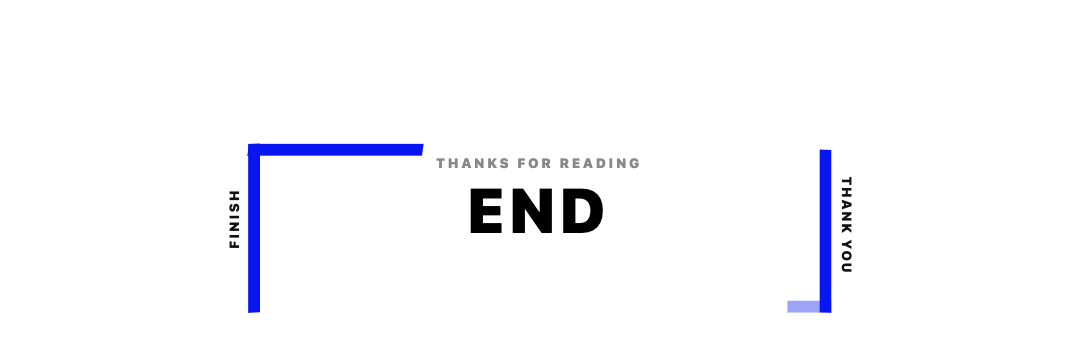
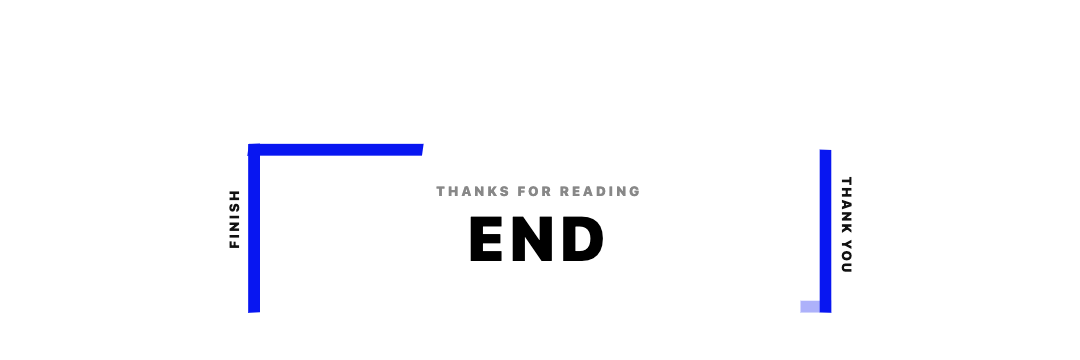
Center weekly end card content

Changed region(s): [[0.3972, 0.5194, 0.6111, 0.7333], [0.3972, 0.4278, 0.6111, 0.4889], [0.7028, 0.825, 0.7639, 0.8861]]

diff --git a/article-012-visual-asset-library-end-card.html b/article-012-visual-asset-library-end-card.html
@@ -25,7 +25,7 @@
 }
 </style>
 <section data-iaw-ending="true" style="margin:58px 16px 0;padding:42px 0 26px;text-align:center;box-sizing:border-box;">
-  <div style="display:inline-block;position:relative;width:100%;max-width:430px;min-height:144px;padding:24px 48px 26px 48px;text-align:left;box-sizing:border-box;background:#fff;font-family:-apple-system,BlinkMacSystemFont,'Helvetica Neue','PingFang SC','Source Han Sans SC','Noto Sans CJK SC','Microsoft YaHei',Arial,sans-serif;overflow:hidden;">
+  <div style="display:inline-flex;align-items:center;justify-content:center;position:relative;width:100%;max-width:430px;min-height:144px;padding:24px 48px 26px 48px;text-align:left;box-sizing:border-box;background:#fff;font-family:-apple-system,BlinkMacSystemFont,'Helvetica Neue','PingFang SC','Source Han Sans SC','Noto Sans CJK SC','Microsoft YaHei',Arial,sans-serif;overflow:hidden;">
     <span style="position:absolute;left:18px;top:16px;width:118px;height:8px;background:#0816f1;display:block;transform:skewX(-8deg);transform-origin:left center;"></span>
     <span style="position:absolute;left:18px;top:16px;bottom:14px;width:8px;background:#0816f1;display:block;transform:skewY(-3deg);transform-origin:center center;"></span>
     <span style="position:absolute;right:18px;bottom:14px;width:112px;height:8px;background:#0816f1;display:block;transform:skewX(7deg);transform-origin:right center;animation:iaw-line 5.8s ease-in-out infinite;"></span>

diff --git a/skills/mondaylab-information-aesthetic-wechat-layout/scripts/render_wechat_html.py b/skills/mondaylab-information-aesthetic-wechat-layout/scripts/render_wechat_html.py
@@ -214,7 +214,7 @@ def render_opening_block() -> str:
 def render_end_block() -> str:
     return f"""
 <section data-iaw-ending="true" style="margin:58px 16px 0;padding:42px 0 26px;text-align:center;box-sizing:border-box;">
-  <div style="display:inline-block;position:relative;width:100%;max-width:430px;min-height:144px;padding:24px 48px 26px 48px;text-align:left;box-sizing:border-box;background:#fff;font-family:-apple-system,BlinkMacSystemFont,'Helvetica Neue','PingFang SC','Source Han Sans SC','Noto Sans CJK SC','Microsoft YaHei',Arial,sans-serif;overflow:hidden;">
+  <div style="display:inline-flex;align-items:center;justify-content:center;position:relative;width:100%;max-width:430px;min-height:144px;padding:24px 48px 26px 48px;text-align:left;box-sizing:border-box;background:#fff;font-family:-apple-system,BlinkMacSystemFont,'Helvetica Neue','PingFang SC','Source Han Sans SC','Noto Sans CJK SC','Microsoft YaHei',Arial,sans-serif;overflow:hidden;">
     <span style="position:absolute;left:18px;top:16px;width:118px;height:8px;background:{BLUE};display:block;transform:skewX(-8deg);transform-origin:left center;"></span>
     <span style="position:absolute;left:18px;top:16px;bottom:14px;width:8px;background:{BLUE};display:block;transform:skewY(-3deg);transform-origin:center center;"></span>
     <span style="position:absolute;right:18px;bottom:14px;width:112px;height:8px;background:{BLUE};display:block;transform:skewX(7deg);transform-origin:right center;animation:iaw-line 5.8s ease-in-out infinite;"></span>